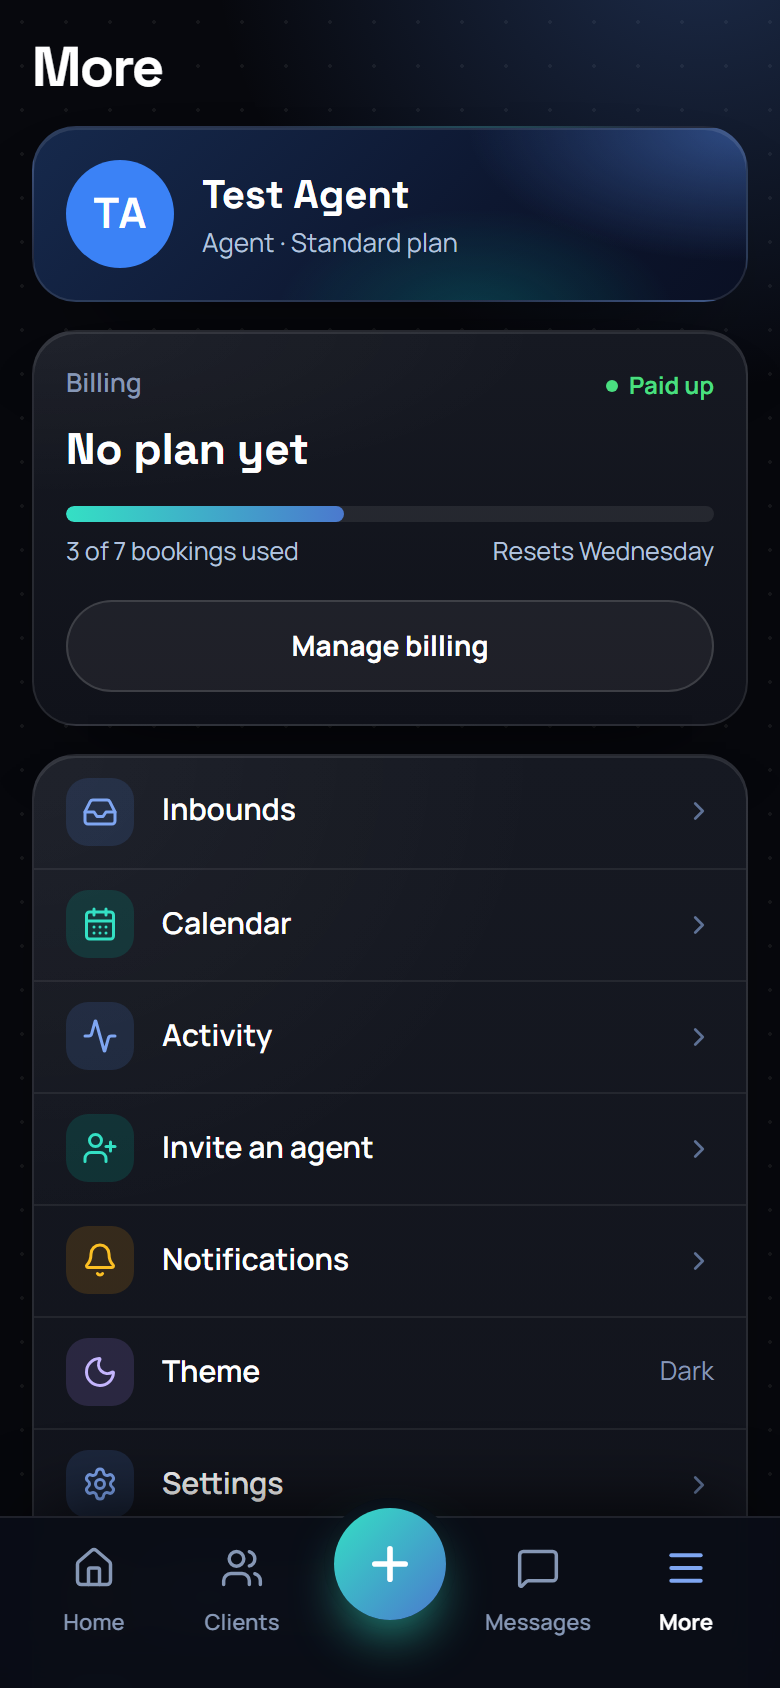
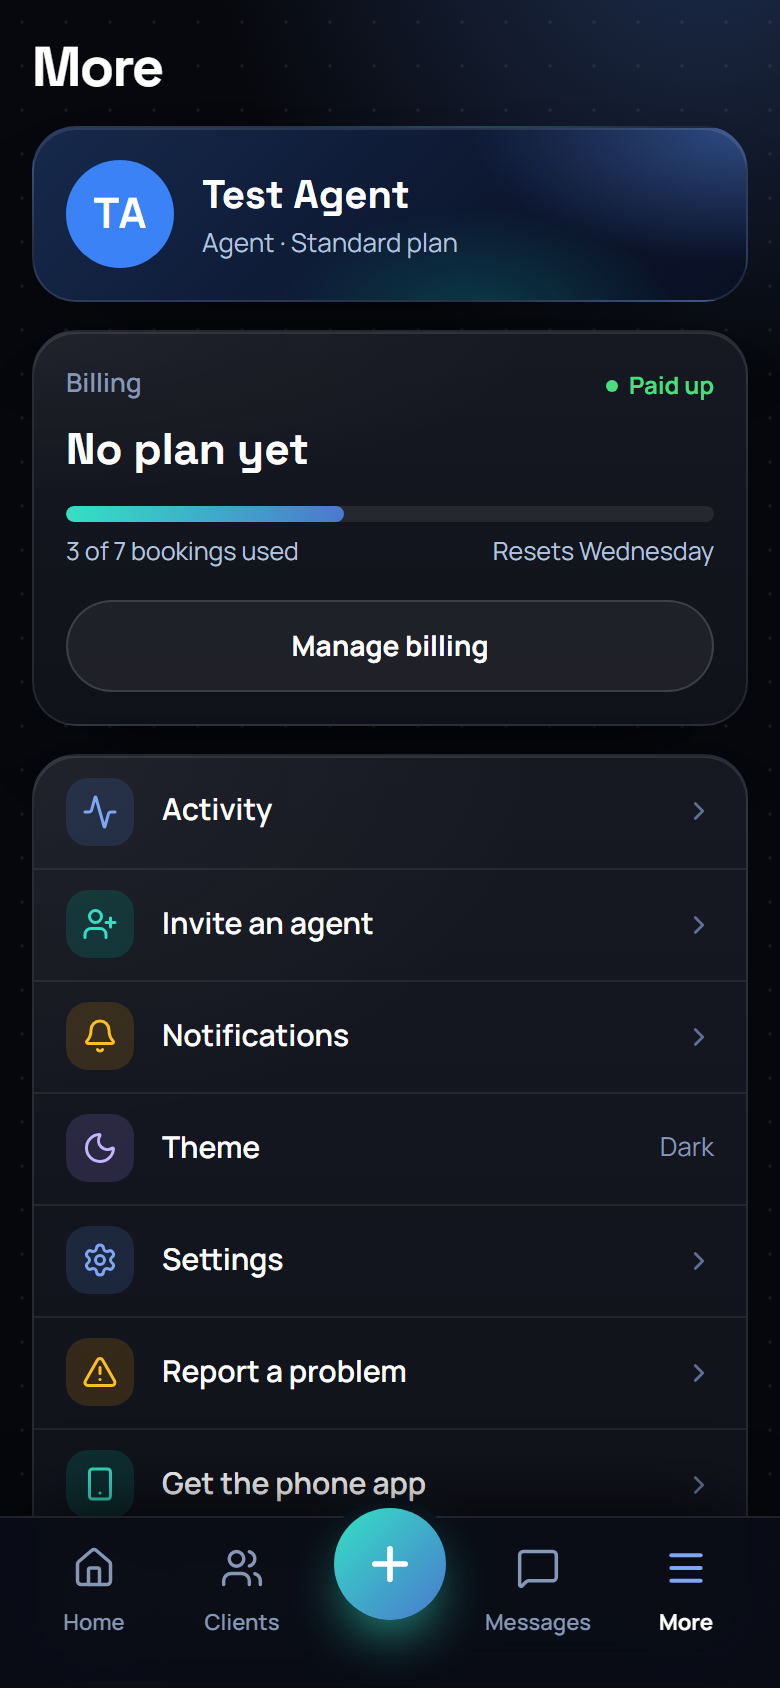
Hide dead Inbounds/Calendar links while Leads is off: More rows, Today cards, Overview button gated on LEADS_PAGE and sent to /agent/leads; Calendar joins the Leads nav group and its route redirects when off; re-shot nav-regroup

diff --git a/src/components/agent/TodayCards.jsx b/src/components/agent/TodayCards.jsx
@@ -11,6 +11,7 @@ import {
   isRecent, cameInAt, nextLine, whenText, PRODUCT_LABEL, PRODUCT_SHORT, LIVE_RESULT,
 } from '../../lib/inbounds'
 import { DEFAULT_TIMEZONE } from '../../lib/timezones'
+import { LEADS_PAGE } from '../../lib/leadsPage'
 import './todayCards.css'
 
 // Portal parity T3: Today's cards (v2 Today, /agent) inside the old Overview, in its card
@@ -329,7 +330,7 @@ export function TodayStrip() {
       </div>
 
       <div className="tcs-links">
-        <Link className="ov-ghost" to="/agent/calendar">Today’s appointments{!loading && !failed && <b>{todayCount}</b>}<ChevronRight size={14} strokeWidth={2.2} aria-hidden="true" /></Link>
+        {LEADS_PAGE && <Link className="ov-ghost" to="/agent/calendar">Today’s appointments{!loading && !failed && <b>{todayCount}</b>}<ChevronRight size={14} strokeWidth={2.2} aria-hidden="true" /></Link>}
         <Link className="ov-ghost" to="/agent/activity">New inbounds{!loading && !failed && <b>{recentCount}</b>}<ChevronRight size={14} strokeWidth={2.2} aria-hidden="true" /></Link>
       </div>
     </section>
@@ -381,7 +382,7 @@ export function TodayCards({ showTexts = false }) {
                     )
                   })}
                 </div>
-                <div className="tc-foot"><Link className="ov-ghost tc-btn" to="/agent/inbounds">See all inbounds<ArrowRight size={15} strokeWidth={2.2} aria-hidden="true" /></Link></div>
+                {LEADS_PAGE && <div className="tc-foot"><Link className="ov-ghost tc-btn" to="/agent/leads">See all leads<ArrowRight size={15} strokeWidth={2.2} aria-hidden="true" /></Link></div>}
               </>
             ) : <Note icon={Inbox}>No new inbounds yet. They show up here as soon as they come in. You don&rsquo;t need to refresh.</Note>}
       </section>

diff --git a/src/components/agent/AgentUI.jsx b/src/components/agent/AgentUI.jsx
@@ -1,5 +1,6 @@
 import { Children, Fragment, useEffect, useId, useLayoutEffect, useMemo, useRef, useState, useImperativeHandle } from 'react'
 import { createPortal } from 'react-dom'
+import { LEADS_PAGE } from '../../lib/leadsPage'
 import { ChevronRight, MessageCircleMore, CalendarPlus, ArrowUpRight, ArrowRight, TrendingUp, TrendingDown, TriangleAlert, Check, Sun, Clock, User, MessageSquareText, Search, Building2, RefreshCw, Phone, PhoneMissed, X, MessageSquare, Inbox, CalendarX, ChevronLeft, CalendarDays, CreditCard, ShieldCheck, Headset, Send, MapPin, Moon, ChevronDown, PencilLine, CircleCheck, ClipboardList } from 'lucide-react'
 import { card, eyebrow, control, MONO, DISPLAY } from '../../lib/exportStyles'
 import { SLOTS, slotTo24h, slotToISO, localDateISO, callWhen, callAt, fmtSlotTime, clientSlotISO, slotState, dayIn, addDaysStr } from '../../lib/scheduling'
@@ -3675,11 +3676,11 @@ export function AttentionCard({ items, loading, onGo, texts = [], fit }) {
             <span className="hidden sm:inline">{more(ATTN_ROWS)}</span>
             <ArrowRight size={15} strokeWidth={2.2} />
           </button>
-        ) : (
-          <button type="button" className="ov-primary" onClick={() => onGo('/agent/inbounds')}>
-            Open Inbounds <ArrowRight size={15} strokeWidth={2.2} />
+        ) : LEADS_PAGE ? (
+          <button type="button" className="ov-primary" onClick={() => onGo('/agent/leads')}>
+            Open Leads <ArrowRight size={15} strokeWidth={2.2} />
           </button>
-        )}
+        ) : null}
       </div>
     </div>
   )

diff --git a/src/pages/agent/More.jsx b/src/pages/agent/More.jsx
@@ -13,6 +13,7 @@ import { AccountRows } from '../../components/shared/AccountRows'
 import { isNativeApp } from '../../lib/native'
 import { NATIVE_BILLING_TEXT } from '../../components/native/NativeBillingNote'
 import { useNewInboundCount } from '../../hooks/useInbounds'
+import { LEADS_PAGE } from '../../lib/leadsPage'
 
 // Prompt 772 — More, the phone layout's fifth tab (mockup More.dc.html): the
 // profile, a Billing card (plan, weekly price, next charge, this week's
@@ -125,8 +126,8 @@ export default function More() {
       </section>
 
       <section className="ov-card ph-menu">
-        <Row icon={Inbox} tone="blue" label="Inbounds" right={newInbounds > 0 ? `${newInbounds} new` : null} onClick={() => navigate('/agent/inbounds')} />
-        <Row icon={CalendarDays} tone="teal" label="Calendar" onClick={() => navigate('/agent/calendar')} />
+        {LEADS_PAGE && <Row icon={Inbox} tone="blue" label="Leads" right={newInbounds > 0 ? `${newInbounds} new` : null} onClick={() => navigate('/agent/leads')} />}
+        {LEADS_PAGE && <Row icon={CalendarDays} tone="teal" label="Calendar" onClick={() => navigate('/agent/calendar')} />}
         <Row icon={Activity} tone="blue" label="Activity" onClick={() => navigate('/agent/activity')} />
         <Row icon={UserPlus} tone="teal" label="Invite an agent" onClick={() => setModal('invite')} />
         <Row icon={Bell} tone="amber" label="Notifications" onClick={() => navigate('/settings#notifications')} />

diff --git a/src/lib/nav.js b/src/lib/nav.js
@@ -1,6 +1,6 @@
 import {
   Users, Home, Settings, CalendarPlus, MessageSquare, ListFilter, Wallet, History, CreditCard, Phone, PhoneIncoming,
-  Inbox,
+  Inbox, CalendarDays,
 } from 'lucide-react'
 import { LEADS_PAGE } from './leadsPage'
 
@@ -12,8 +12,8 @@ export const NAV = {
   // Prompt 676 — grouped the way Restorix Portal's Layout.jsx is instead of
   // one flat list. Regrouped and renamed (Clients, Submit) on Oct 30: Today,
   // Servicing, Communications, Account; a Leads group between Today and
-  // Servicing only when LEADS_PAGE is on. Calendar joins the Leads group when
-  // its route exists.
+  // Servicing only when LEADS_PAGE is on. Calendar sits in the Leads group and
+  // exists only with it (its route redirects to Overview while Leads is off).
   agent: [
     { group: 'Today', items: [
       { to: '/agent', label: 'Overview', icon: Home },
@@ -22,6 +22,7 @@ export const NAV = {
     ] },
     ...(LEADS_PAGE ? [{ group: 'Leads', items: [
       { to: '/agent/leads', label: 'Leads', icon: Inbox },
+      { to: '/agent/calendar', label: 'Calendar', icon: CalendarDays },
     ] }] : []),
     { group: 'Servicing', items: [
       { to: '/agent/clients', label: 'Clients', icon: Users },

diff --git a/src/App.jsx b/src/App.jsx
@@ -157,11 +157,11 @@ export default function App() {
                 <DashboardLayout><Suspense fallback={null}><V2InboundDetail /></Suspense></DashboardLayout>
               </ProtectedRoute>
             } />
-            <Route path="/agent/calendar" element={
+            <Route path="/agent/calendar" element={LEADS_PAGE ? (
               <ProtectedRoute allowedRoles={['agent']}>
                 <DashboardLayout><Suspense fallback={null}><V2Calendar /></Suspense></DashboardLayout>
               </ProtectedRoute>
-            } />
+            ) : <Navigate to="/agent" replace />} />
             <Route path="/agent/plan" element={<Navigate to="/agent/billing" replace />} />
             <Route path="/agent/book" element={
               <ProtectedRoute allowedRoles={['agent', 'admin']}>
